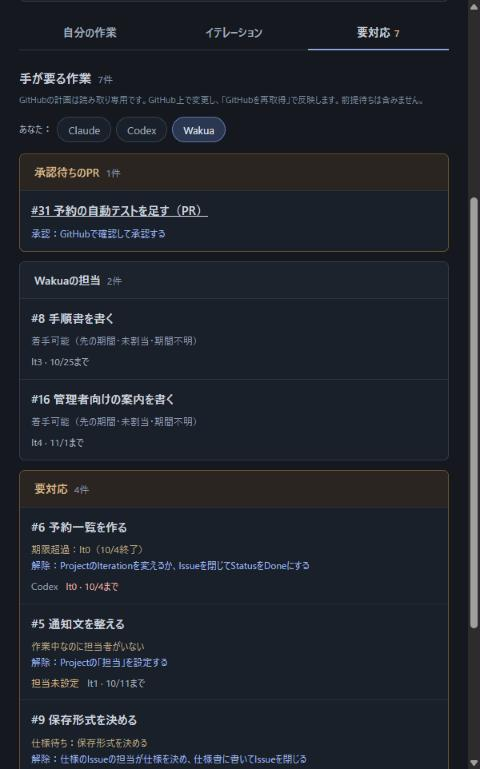
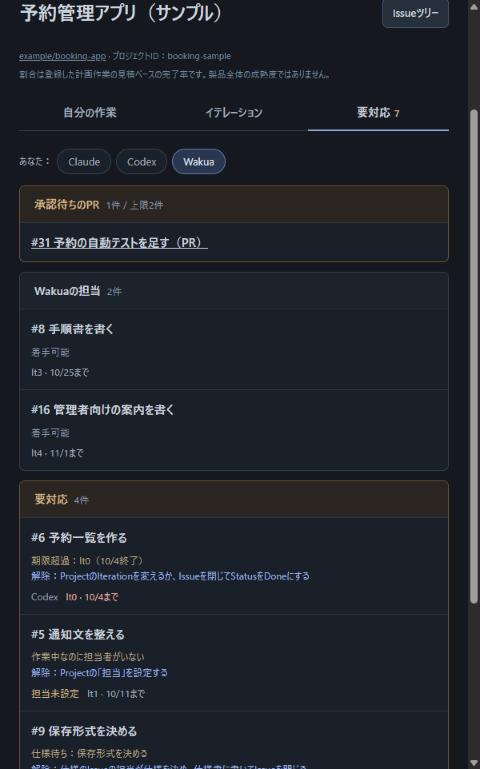
fix: 要対応タブの重複する見出し・説明文・案内を削る
Refs #5

diff --git a/dist/attention.css b/dist/attention.css
@@ -1,5 +1,3 @@
-.attention-head { margin: 4px 0 12px; }
-.attention-head h2 { font-size: 16px; margin: 0 0 4px; }
 .attention-reasons { list-style: none; margin: 6px 0 0; padding: 0; font-size: 12px; }
 .attention-reasons li { margin-top: 5px; }
 .attention-reason { display: block; color: #b9a585; }
